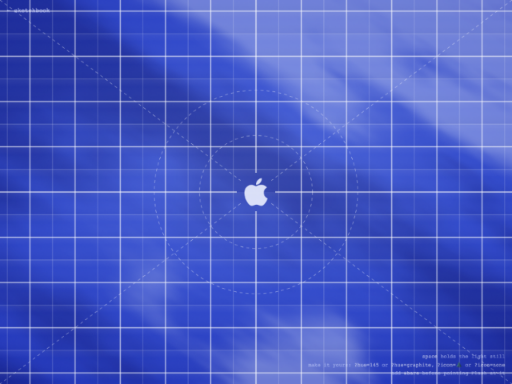
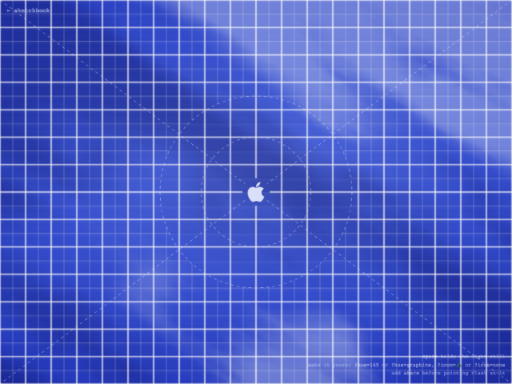
feat(blueprint): twenty blocks across, fourteen down
The sheet holds exactly 20 heavy-bounded 2x2 blocks by 14 — cells give
up perfect squareness to keep the count on every screen. The heavy
rules gain weight, the minor rules stop at the outer circle's rim so
the middle holds only the heavy pair, the dashes, and the mark, and
everything round rescales to the denser sheet.

Changed region(s): [[0.0, 0.0, 1.0, 1.0]]

diff --git a/sketches/2026-08-blueprint/sketch.js b/sketches/2026-08-blueprint/sketch.js
@@ -71,16 +71,17 @@ function el(name, attrs, parent) {
   return node;
 }
 
-function cellSize(w, h) {
-  return Math.max(48, Math.min(120, Math.round(Math.min(w, h) / 17)));
-}
-
 function rebuild() {
   const w = window.innerWidth;
   const h = window.innerHeight;
   const cx = w / 2;
   const cy = h / 2;
-  const cell = cellSize(w, h);
+  // The sheet holds exactly 20 heavy-bounded 2x2 blocks across and 14 down —
+  // 40 columns, 28 rows — so the cells give up perfect squareness to keep
+  // the count on every screen. Everything round is sized off the row height.
+  const cellX = w / 40;
+  const cellY = h / 28;
+  const cell = cellY;
   svg.setAttribute('viewBox', `0 0 ${w} ${h}`);
   svg.replaceChildren();
 
@@ -94,11 +95,11 @@ function rebuild() {
   el('stop', { offset: '1', 'stop-color': 'rgba(0,0,40,0.03)' }, bevel);
 
   const pat = el('pattern', {
-    id: 'grid', width: cell, height: cell, patternUnits: 'userSpaceOnUse',
+    id: 'grid', width: cellX, height: cellY, patternUnits: 'userSpaceOnUse',
     // Anchor the pattern so tile seams land on the exact centre.
-    x: cx % cell, y: cy % cell,
+    x: cx % cellX, y: cy % cellY,
   }, defs);
-  el('rect', { width: cell, height: cell, fill: 'url(#bevel)' }, pat);
+  el('rect', { width: cellX, height: cellY, fill: 'url(#bevel)' }, pat);
 
   el('rect', { width: w, height: h, fill: 'url(#grid)' }, svg);
 
@@ -112,10 +113,10 @@ function rebuild() {
   // crossing, stopped before the logo — so the clearing hugs the mark and
   // the mark touches not a single line. Custom icons vary in reach, so
   // they keep a wider clearing than the apple.
-  const hole = icon === null ? 0.85 * cell : icon === 'none' ? 0 : 1.35 * cell;
+  const hole = icon === null ? 1.0 * cell : icon === 'none' ? 0 : 1.8 * cell;
   const minor = el('g', { stroke: 'rgba(255,255,255,0.34)', 'stroke-width': 1 }, svg);
-  const majorGlow = el('g', { stroke: 'rgba(255,255,255,0.14)', 'stroke-width': 4.5 }, svg);
-  const major = el('g', { stroke: 'rgba(255,255,255,0.62)', 'stroke-width': 2 }, svg);
+  const majorGlow = el('g', { stroke: 'rgba(255,255,255,0.15)', 'stroke-width': 6 }, svg);
+  const major = el('g', { stroke: 'rgba(255,255,255,0.65)', 'stroke-width': 2.6 }, svg);
   const rule = (fixed, vertical, group, gap) => {
     const [a, b, mid] = vertical ? ['x', 'y', cy] : ['y', 'x', cx];
     const line = (from, to) =>
@@ -127,16 +128,21 @@ function rebuild() {
       line(0, vertical ? h : w);
     }
   };
+  // Minor rules stop inside the circles: where one would cross the outer
+  // circle it is drawn only up to the rim, so the middle holds nothing but
+  // the heavy rules, the dashes, and the mark.
+  const rim = 7 * cell;
   for (const vertical of [true, false]) {
-    const [centre, extent] = vertical ? [cx, w] : [cy, h];
-    for (let k = -Math.ceil(centre / cell); centre + k * cell <= extent; k++) {
-      const at = centre + k * cell;
-      const gap = k === 0 ? hole : 0;
+    const [centre, extent, step] = vertical ? [cx, w, cellX] : [cy, h, cellY];
+    for (let k = -Math.ceil(centre / step); centre + k * step <= extent; k++) {
+      const at = centre + k * step;
       if (k % 2 === 0) {
+        const gap = k === 0 ? hole : 0;
         rule(at, vertical, majorGlow, gap);
         rule(at, vertical, major, gap);
       } else {
-        rule(at, vertical, minor, 0);
+        const d = Math.abs(at - centre);
+        rule(at, vertical, minor, d < rim ? Math.sqrt(rim * rim - d * d) : 0);
       }
     }
   }
@@ -157,11 +163,11 @@ function rebuild() {
   };
   diag(0, 0);
   diag(w, 0);
-  el('circle', { cx, cy, r: 2.5 * cell }, marks);
-  el('circle', { cx, cy, r: 4.5 * cell }, marks);
+  el('circle', { cx, cy, r: 4 * cell }, marks);
+  el('circle', { cx, cy, r: 7 * cell }, marks);
 
   if (icon === null) {
-    const logoH = 1.4 * cell;
+    const logoH = 1.65 * cell;
     const s = logoH / 512;
     el('path', {
       d: APPLE, fill: 'rgba(235,240,255,0.9)',
@@ -170,7 +176,7 @@ function rebuild() {
   } else if (/\.(svg|png|jpe?g|webp)$/i.test(icon) || icon.includes('/')) {
     // An image URL — resolved against the page, so a file shipped next to
     // the sketch is just ?icon=boid.svg. It keeps its own colours.
-    const box = 2.5 * cell;
+    const box = 3.2 * cell;
     el('image', {
       x: cx - box / 2, y: cy - box / 2, width: box, height: box,
       href: icon, preserveAspectRatio: 'xMidYMid meet',
@@ -178,7 +184,7 @@ function rebuild() {
   } else if (icon !== 'none') {
     const glyph = el('text', {
       x: cx, y: cy, 'text-anchor': 'middle', 'dominant-baseline': 'central',
-      'font-size': 2.1 * cell, fill: 'rgba(235,240,255,0.9)',
+      'font-size': 2.6 * cell, fill: 'rgba(235,240,255,0.9)',
       'font-family': "system-ui, 'Apple Color Emoji', 'Noto Color Emoji', sans-serif",
     }, svg);
     glyph.textContent = icon;
